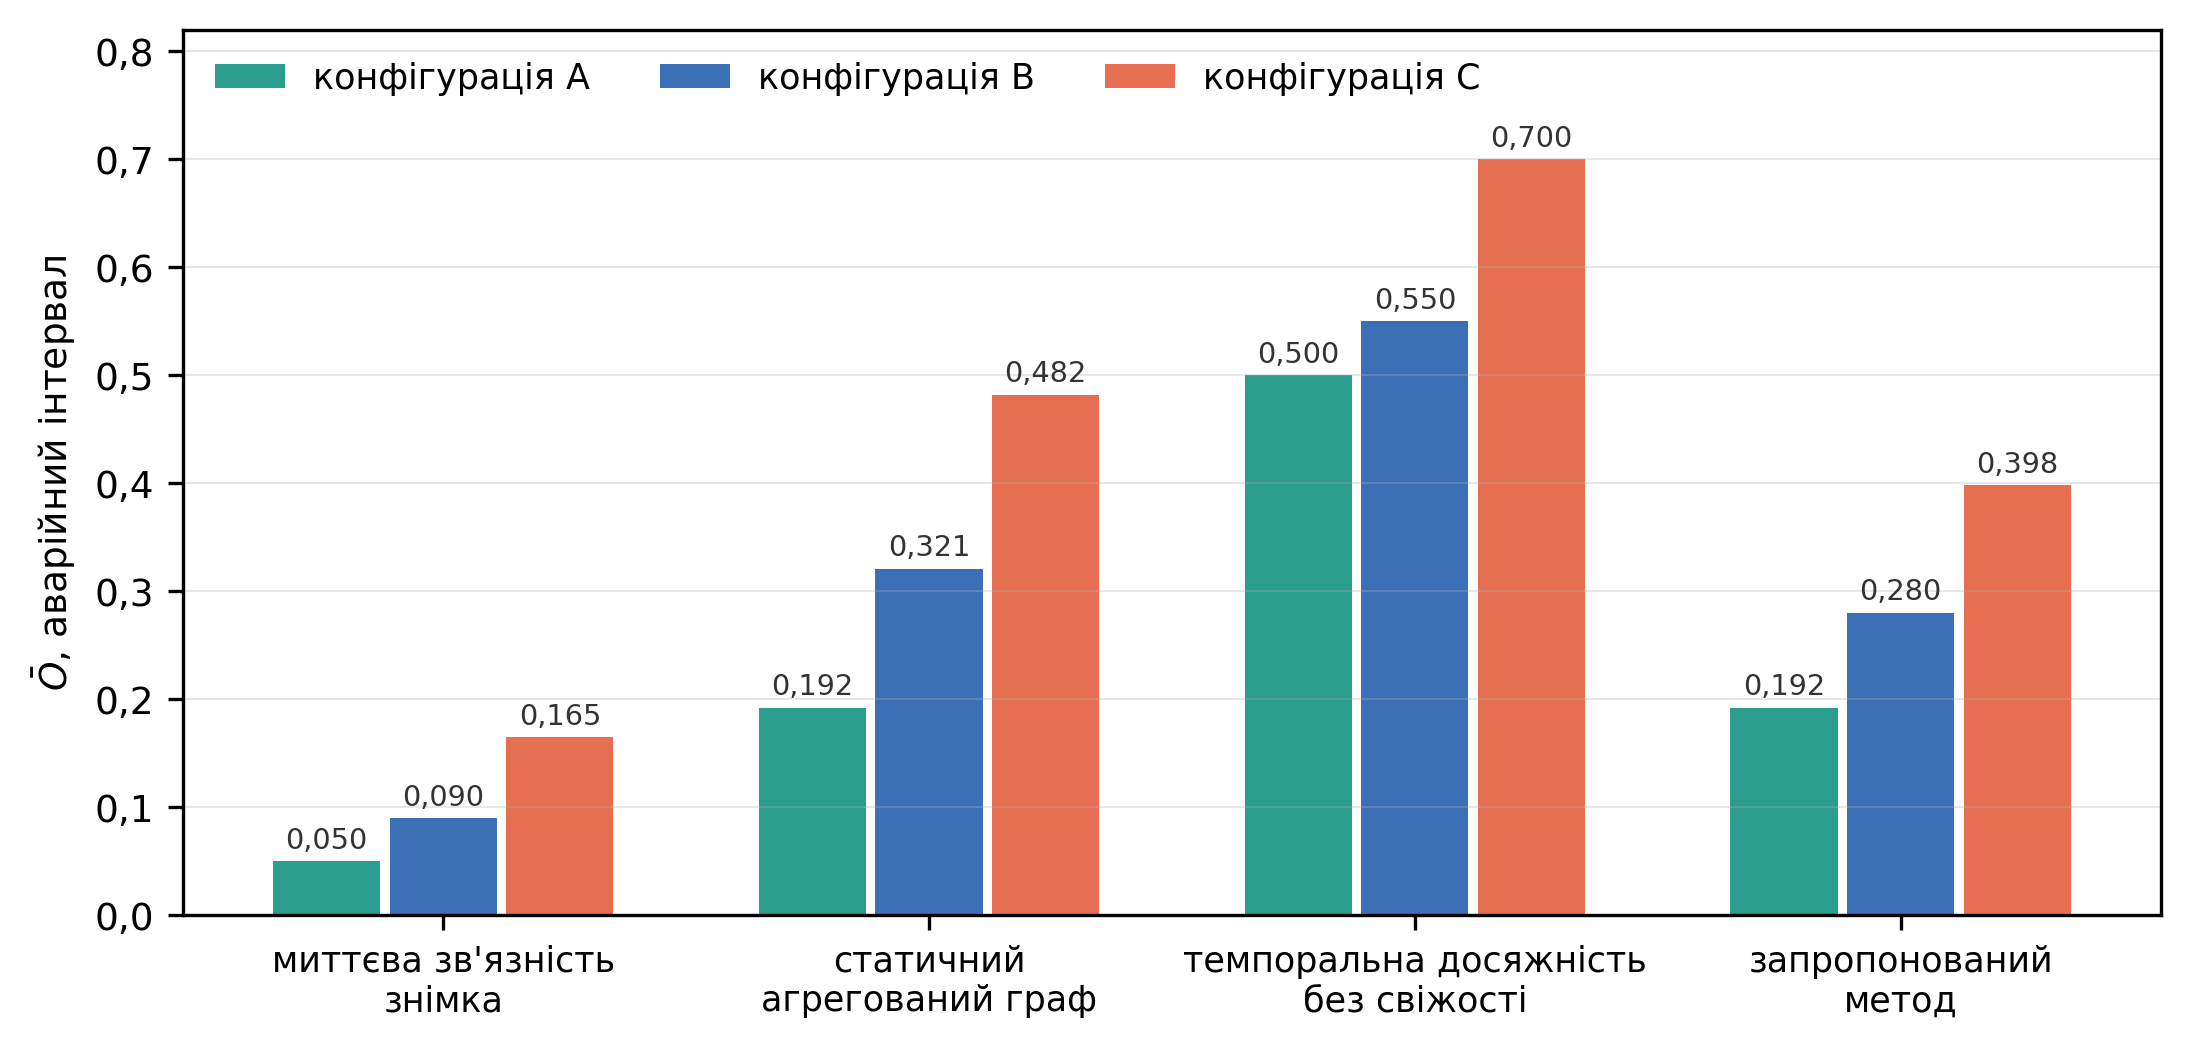
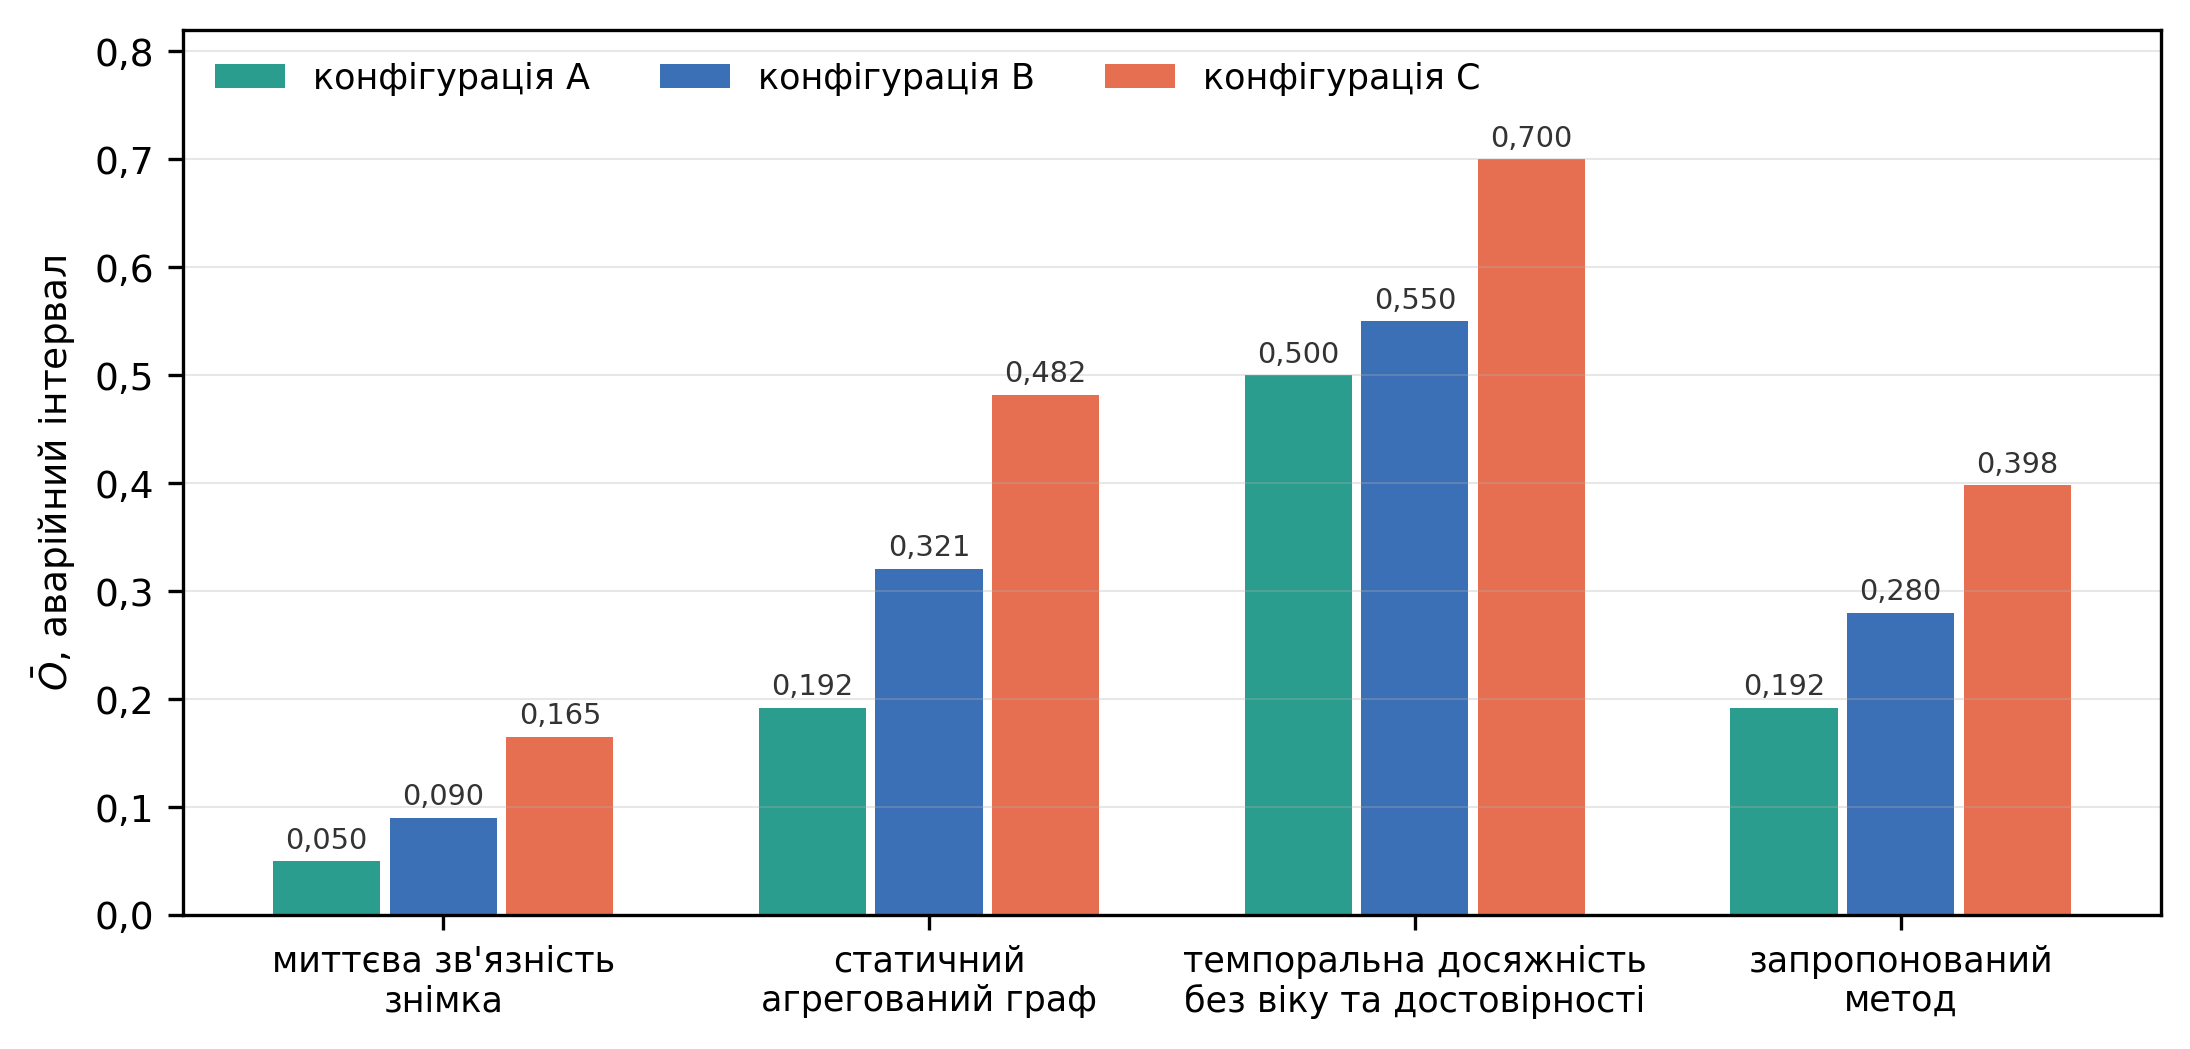
Update figures

diff --git a/figures/sources/figures2.py b/figures/sources/figures2.py
@@ -77,7 +77,7 @@ plt.close()
 ab = load("ablation.csv")
 methods = [("snapshot connectivity", "миттєва зв'язність\nзнімка"),
            ("static aggregated graph", "статичний\nагрегований граф"),
-           ("temporal reachability, no freshness", "темпоральна досяжність\nбез свіжості"),
+           ("temporal reachability, no freshness", "темпоральна досяжність\nбез віку та достовірності"),
            ("proposed (full)", "запропонований\nметод")]
 fig, ax = plt.subplots(figsize=(7.4, 3.6))
 width = 0.24
